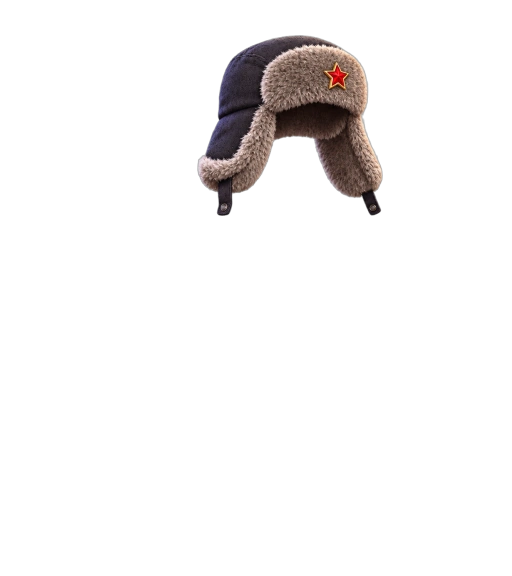
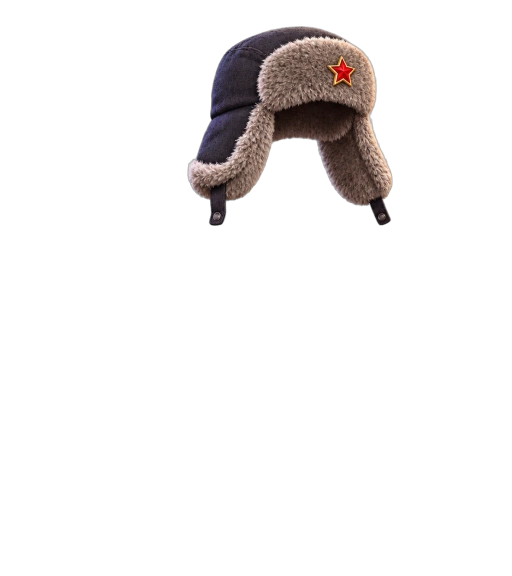
polish: enlarge and snug-fit all 18 hats on head without stray specks

Changed region(s): [[0.3438, 0.0312, 0.7812, 0.4062]]

diff --git a/src/ui.tsx b/src/ui.tsx
@@ -123,7 +123,7 @@ export const PIGEON_SKIN_COLORS: Record<string, string> = {
   "iridescent-oil-slick": "#5e5a67", "skin-18": "#5e5a67", "18": "#5e5a67",
 };
 
-const ASSET_V = "?v=17";
+const ASSET_V = "?v=18";
 
 export function resolveSkinSrc(skin?: string | null): string {
   if (!skin || skin === "common" || skin === "default") {

diff --git a/scripts/build-pigeon-assets.py b/scripts/build-pigeon-assets.py
@@ -473,24 +473,24 @@ def extract_accessory_diff(
 # Используется расширенный холст 512x576 (64px запас сверху), чтобы высокие шапки были в натуральную величину и не обрезались
 HAT_HEADROOM = 64
 STANDALONE_HAT_FIT: dict[int, tuple[int, int, int]] = {
-    1: (176, 297, 102),  # Чёрная панама
-    2: (168, 310, 98),   # Жёлтая кепка
-    3: (142, 299, 86),   # Золотая корона
-    4: (186, 290, 152),  # Шапка-ушанка
-    5: (168, 308, 96),   # Красная бейсболка
-    6: (178, 278, 128),  # Красная повязка
-    7: (194, 290, 104),  # Шляпа волшебника
-    8: (166, 298, 98),   # Кусок пиццы
-    9: (148, 300, 100),  # Кроличьи ушки
-    10: (132, 300, 50),  # Золотой нимб
-    11: (166, 309, 96),  # Неоновый козырёк
-    12: (156, 294, 98),  # Красная шапка с помпоном
-    13: (166, 308, 96),  # Кепка с пропеллером
-    14: (168, 298, 98),  # Колпак повара
-    15: (188, 298, 98),  # Пиратская треуголка
-    16: (176, 299, 98),  # Зелёная панама-лягушка
-    17: (190, 294, 120), # Колпак шута
-    18: (176, 290, 142), # Шлем авиатора
+    1: (188, 297, 106),  # Чёрная панама
+    2: (184, 308, 104),  # Жёлтая кепка
+    3: (148, 299, 88),   # Золотая корона
+    4: (206, 290, 162),  # Шапка-ушанка
+    5: (184, 306, 103),  # Красная бейсболка
+    6: (190, 276, 132),  # Красная повязка
+    7: (210, 290, 108),  # Шляпа волшебника
+    8: (182, 298, 104),  # Кусок пиццы
+    9: (162, 300, 105),  # Кроличьи ушки
+    10: (142, 300, 52),  # Золотой нимб
+    11: (180, 307, 102), # Неоновый козырёк
+    12: (172, 294, 105), # Красная шапка с помпоном
+    13: (182, 306, 103), # Кепка с пропеллером
+    14: (178, 298, 103), # Колпак повара
+    15: (204, 296, 105), # Пиратская треуголка
+    16: (192, 298, 105), # Зелёная панама-лягушка
+    17: (202, 294, 124), # Колпак шута
+    18: (194, 288, 148), # Шлем авиатора
 }
 
 
@@ -521,12 +521,13 @@ def build_standalone_hats_assets(session):
                 else:
                     seg_rgba = segment_subject(cell[:, :, :3], session)
 
-                # Убираем мелкий мусор/осколки на краях ячейки (area < 400)
+                # Убираем мелкий мусор/осколки с соседних ячеек (оставляем главный объект и крупные детали >= 1500 px)
                 num_l, labels, stats, _ = cv2.connectedComponentsWithStats((seg_rgba[:, :, 3] > 20).astype(np.uint8))
                 if num_l > 1:
+                    main_lbl = int(np.argmax(stats[1:, cv2.CC_STAT_AREA]) + 1)
                     valid = np.zeros(seg_rgba.shape[:2], dtype=bool)
                     for lbl in range(1, num_l):
-                        if stats[lbl, cv2.CC_STAT_AREA] >= 400:
+                        if lbl == main_lbl or stats[lbl, cv2.CC_STAT_AREA] >= 1500:
                             valid[labels == lbl] = True
                     seg_rgba[~valid, 3] = 0
 
